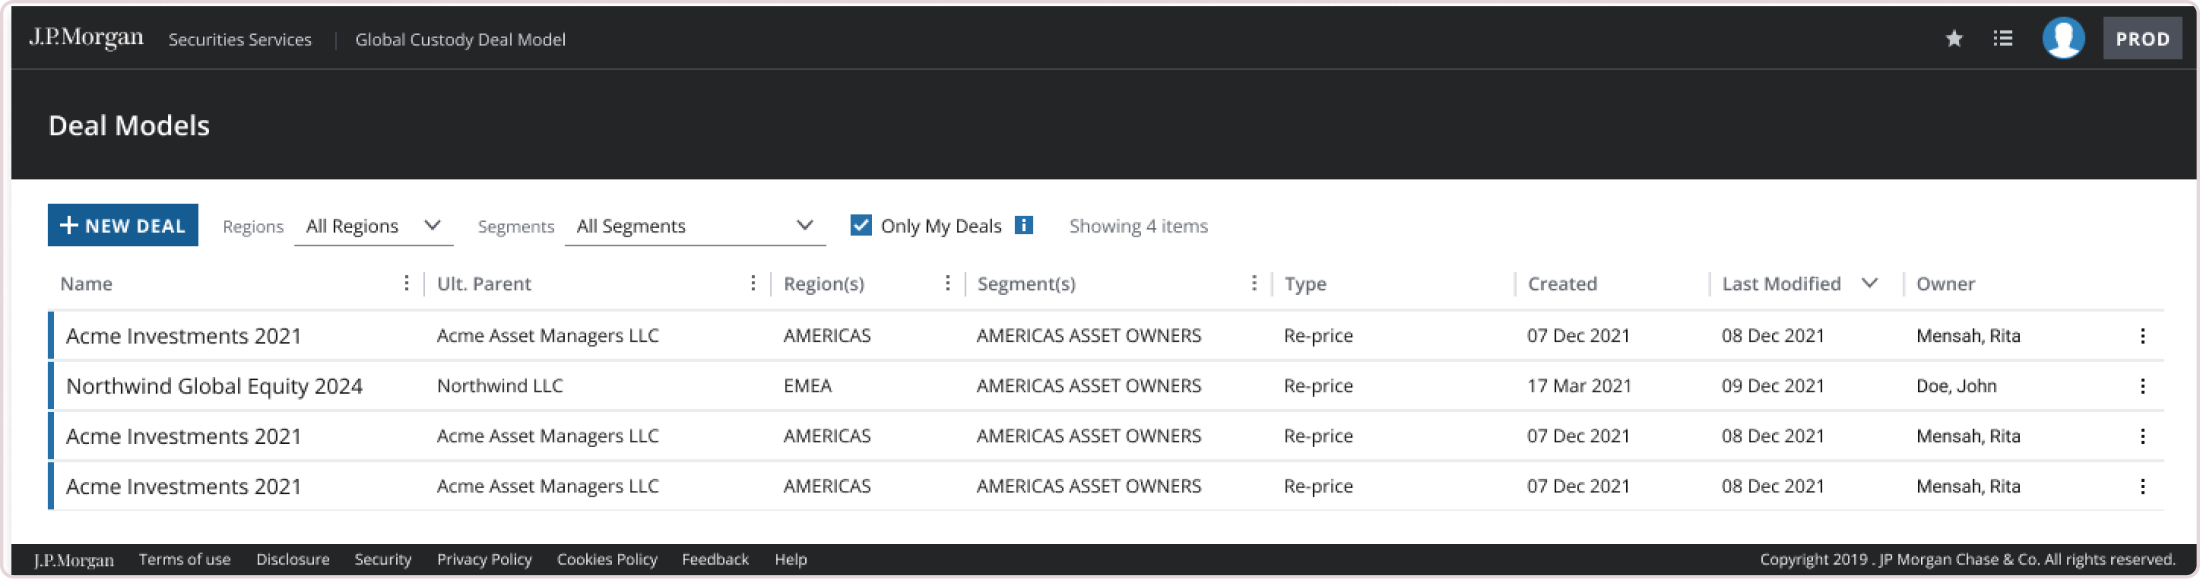
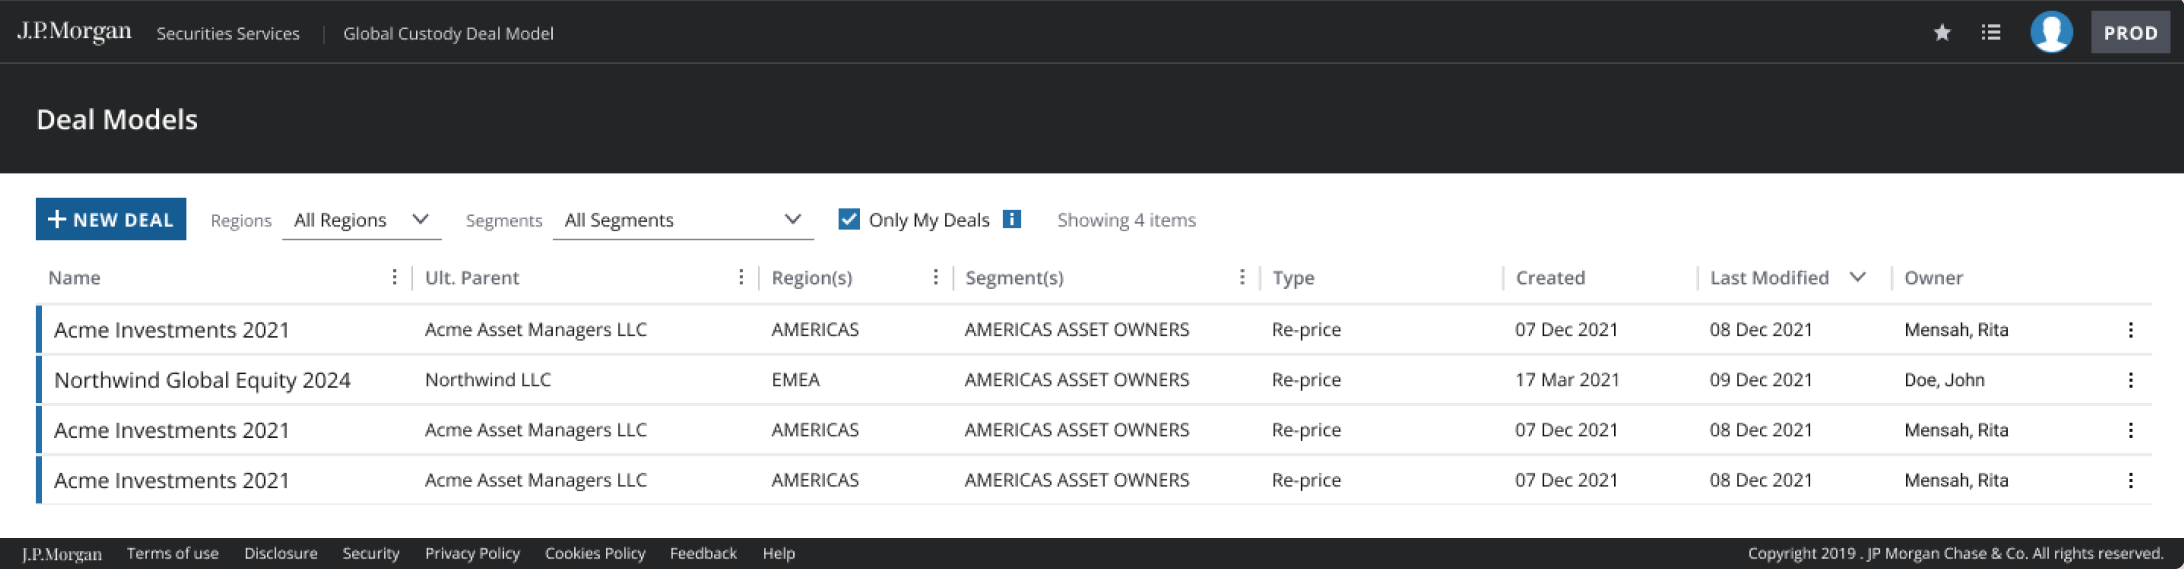
Crop screenshots to the content edge, no white margins
Deal Model screens cropped to the app frame measured from the dark
header and footer (margins were 4 to 22px and uneven by side). uoaui.ai,
Deal Model approval and Winking Star decision images cropped to their
content edge. Originals kept as sync sources.

Claude-Session: https://claude.ai/code/session_019suKdoBbYJpaMP83EJ6SGr

diff --git a/BUILD.md b/BUILD.md
@@ -1047,3 +1047,9 @@ Validation: production build passes and the full Playwright suite passes; the il
 The journey's "Another adult can pick up here" block repeated the "Two adults, one shared board" caregiver steps, which also carry the offline state. The journey block is gone; the caregiver steps stay.
 
 Validation: production build passes and the Playwright suite passes with the journey step count updated.
+
+### No white edges on screenshots · 13 October 2026
+
+Shannon spotted uneven white edges around the Deal Model screens on her phone. The Figma exports carried a thin stroke and a soft white gutter that differed by side: 4 to 22px on the left, 4 to 12px on the top, 4px right and bottom. Every Deal Model screen is now cropped to the app frame itself, measured from where the dark header and footer begin. The same pass found white borders on the uoaui.ai, Deal Model approval and Winking Star decision images (30 to 80px, uneven), so those are cropped to their content edge too. Originals stay beside the trimmed copies as the sync sources.
+
+Validation: production build passes and the full Playwright suite passes.

diff --git a/docs/MEDIA-SOURCES.md b/docs/MEDIA-SOURCES.md
@@ -254,3 +254,7 @@ The source page and node map is recorded in FIGMA-AUDIT.md. Unused audit exports
 ## Deal Model trimmed screens · 12 October 2026
 
 `source-242-530/535/550/570/585-trim.png` are the same captures with the empty canvas band between the last content row and the footer removed (48px margin kept, footer kept). Nothing is added, moved or restyled. The untrimmed files remain the Figma sync targets.
+
+## Edge trims · 13 October 2026
+
+All thirteen `source-242-*-trim.png` Deal Model screens are cropped to the app frame (dark header to dark footer, first to last dark header pixel). `ai-decision-*`, `deal-decision-4-*` and the listed `winking-decision-*` files have `-trim.png` copies cropped to their content edge. Untrimmed originals remain the Figma sync targets.
